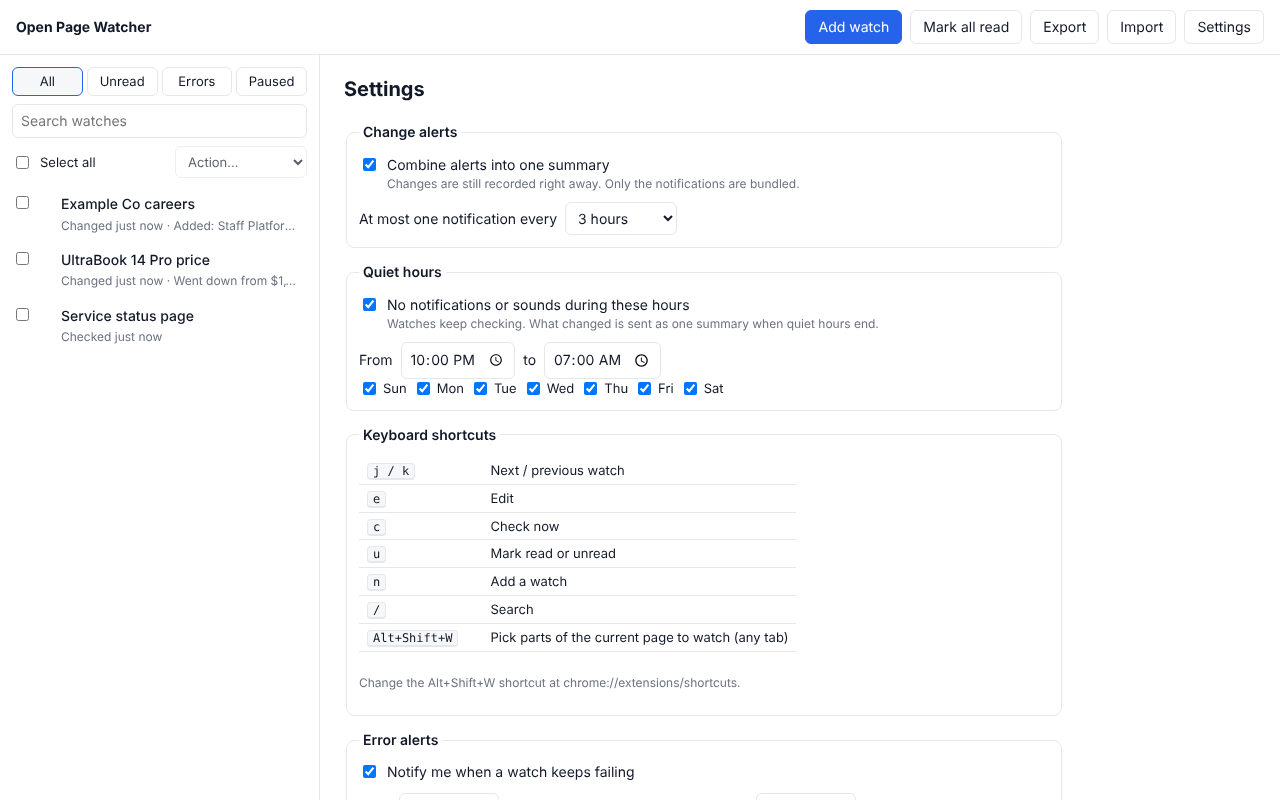
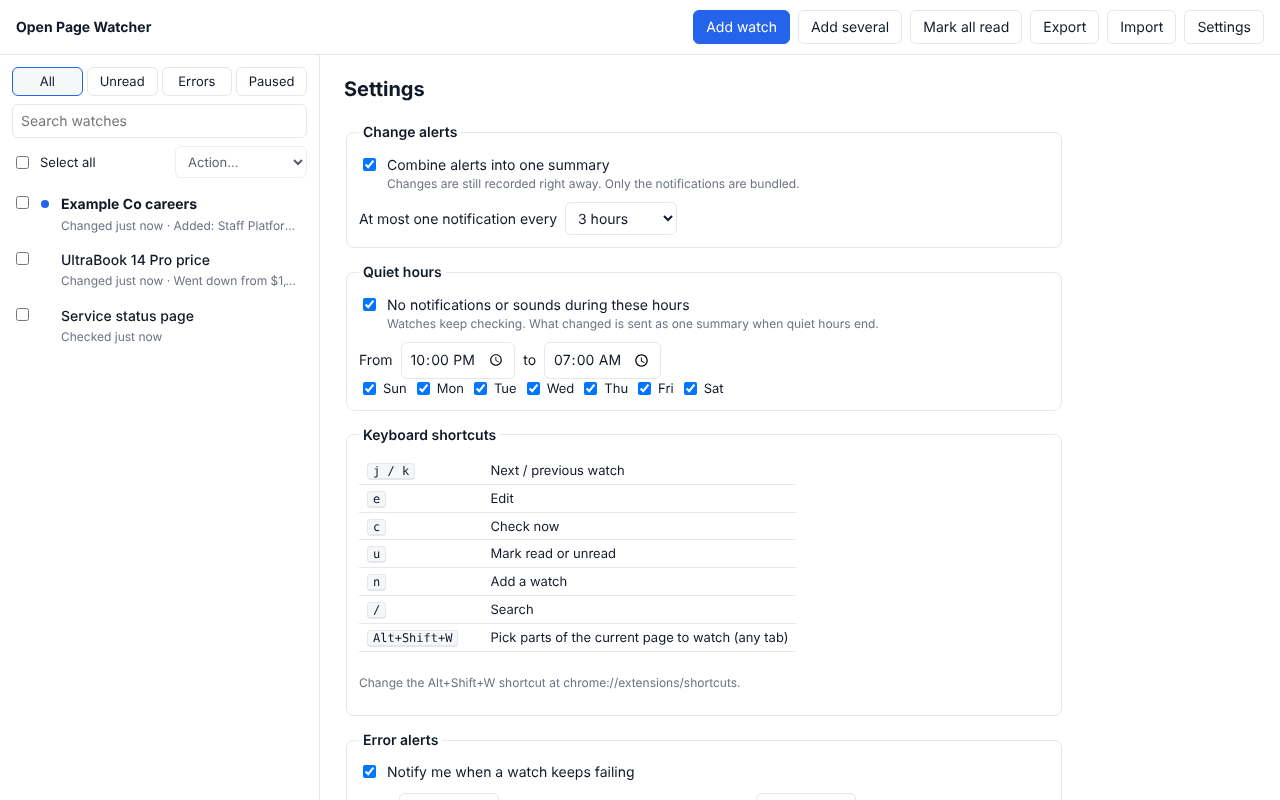
Show screenshots in the README
Regenerates the screenshots from the current version with
scripts/store-assets.mjs and shows them, with the banner, at the top of the
README. Also corrects where Export and Import live in the docs.

Changed region(s): [[0.5312, 0.0, 0.7188, 0.0625], [0.0312, 0.25, 0.1562, 0.2812]]

diff --git a/README.md b/README.md
@@ -1,3 +1,7 @@
+<p align="center">
+  <img src="store/promo-marquee-1400x560.png" alt="Open Page Watcher: private, open-source change alerts" width="700">
+</p>
+
 # Open Page Watcher
 
 A privacy- and security-first Chrome extension that watches web pages for
@@ -7,6 +11,18 @@ your computer: no servers, no accounts and no data collection of any kind.
 **[Read the documentation](docs/README.md)** · **[Examples and use cases](docs/examples.md)** ·
 [Selectors](docs/selectors.md) · [Regex](docs/regex.md) · [Alert rules](docs/alerts.md) ·
 [Troubleshooting](docs/troubleshooting.md)
+
+<p align="center">
+  <img src="store/screenshot-1-inbox.png" alt="The inbox: a watch on a laptop's price with a chart of the price over time and the latest change highlighted" width="820">
+</p>
+
+## Screenshots
+
+| Pick the parts of a page to watch | Choose what to watch and when to alert |
+| --- | --- |
+| ![Clicking the price on a product page to watch just that part](store/screenshot-2-picker.png) | ![The watch editor with selectors, a regex filter and ignore options](store/screenshot-3-options.png) |
+| **Quiet hours, combined summaries and shortcuts** | |
+| ![Settings with combined alerts, quiet hours and keyboard shortcuts](store/screenshot-4-alerts.png) | |
 
 ## Private and local by design
 

diff --git a/docs/getting-started.md b/docs/getting-started.md
@@ -85,8 +85,9 @@ The inbox is where everything else happens. It has:
   add or remove a label, or delete them together.
 - **Add watch** and **Add several** buttons. See [Adding several pages at
   once](#adding-several-pages-at-once).
-- **Settings**: alert summaries, quiet hours, failure alerts, backups and the
-  About section.
+- **Mark all read**, **Export** and **Import** (backups).
+- **Settings**: alert summaries, quiet hours, failure alerts, keyboard shortcuts
+  and the About section.
 
 Clicking a watch shows its history and comparison views. See
 [Reviewing changes](reviewing-changes.md).

diff --git a/docs/reviewing-changes.md b/docs/reviewing-changes.md
@@ -135,7 +135,7 @@ Change `Alt+Shift+W` at `chrome://extensions/shortcuts`.
 
 ## Backups, import and export
 
-In **Settings**:
+Use the **Export** and **Import** buttons at the top of the inbox:
 
 - **Export** saves all your watches and settings to a file. Tick **Protect the
   file with a password** to encrypt it (AES-256-GCM, with a key made from your
